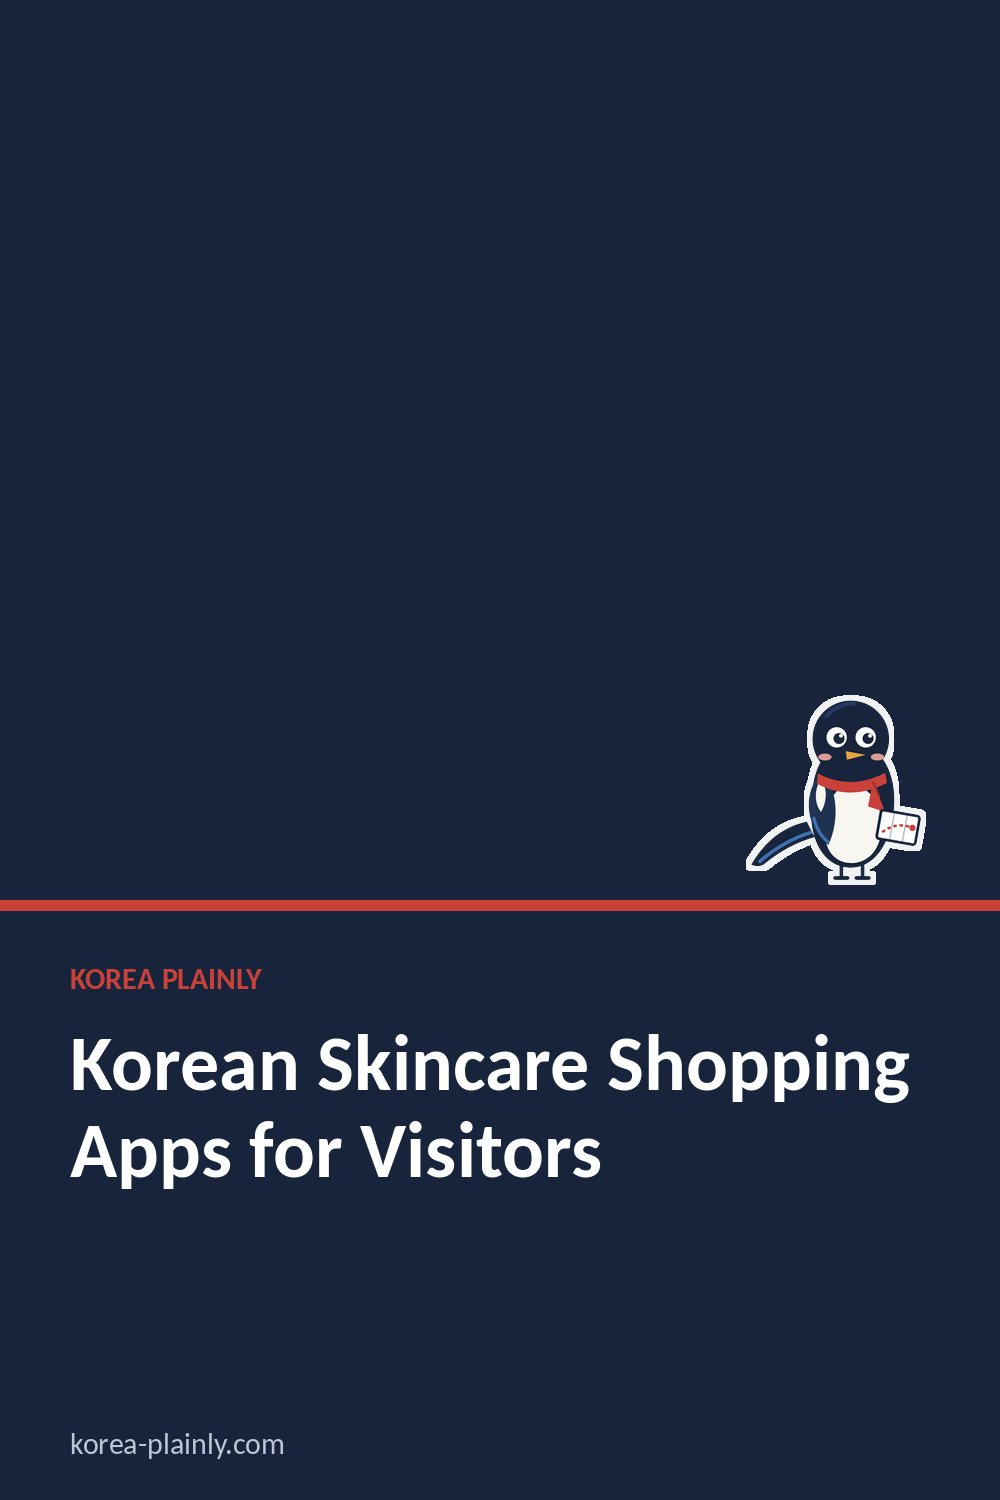
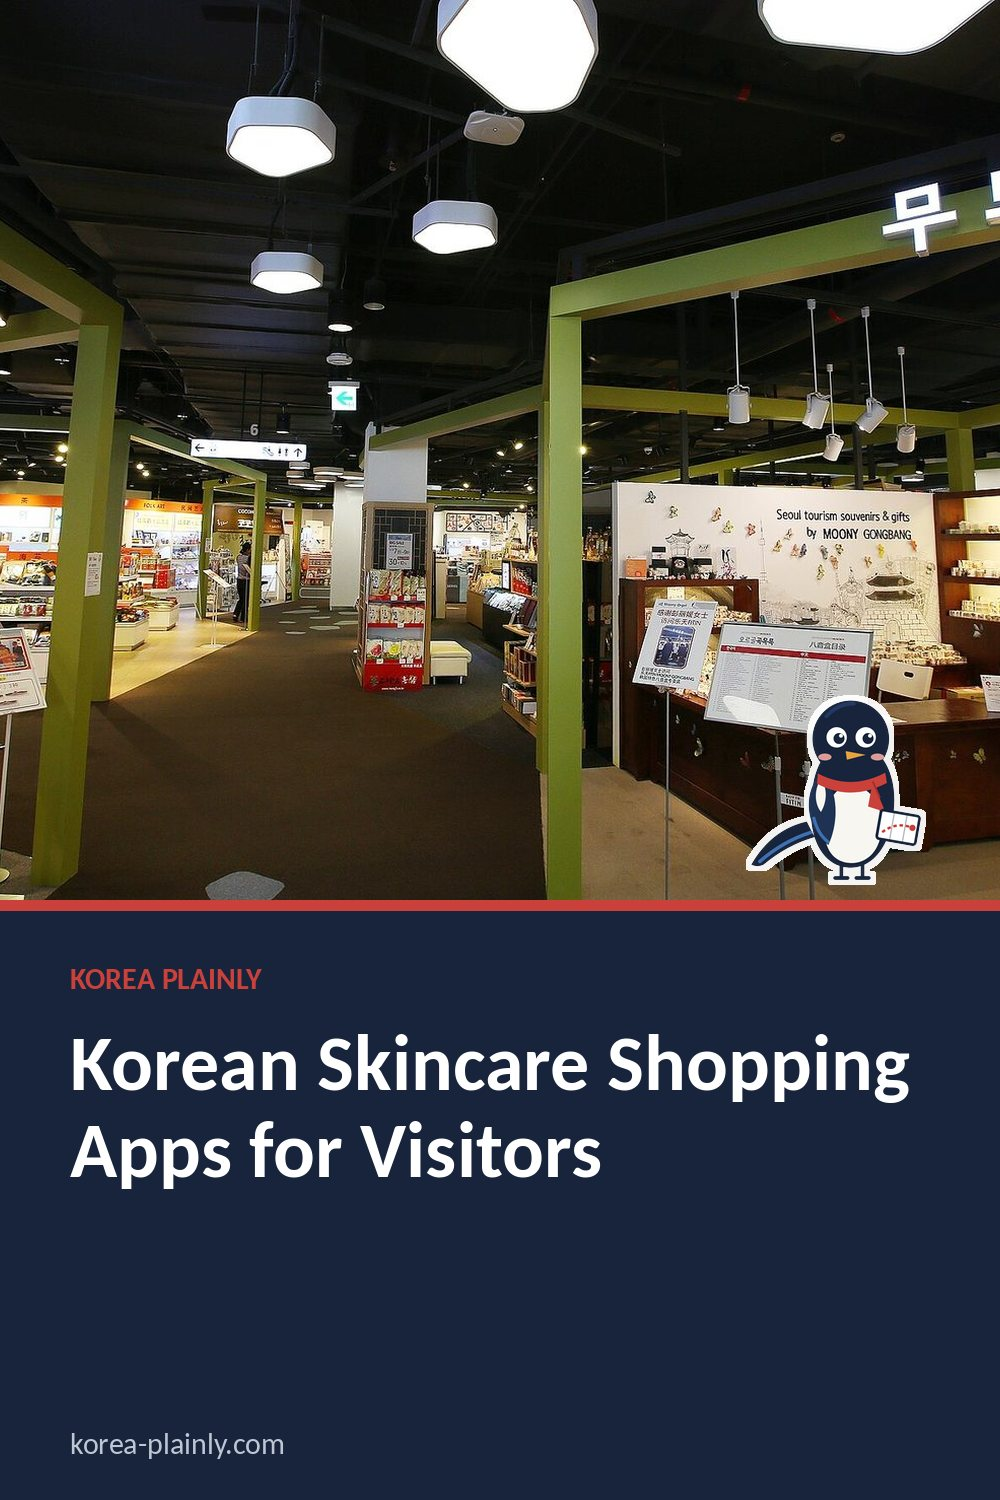
Skincare apps guide: use the Seoul shopping photo as cover (Commons retry found nothing)
Claude-Session: https://claude.ai/code/session_01MMQnqHAAmPLWFfv3sL7Uxx

diff --git a/shop.html b/shop.html
@@ -22,7 +22,7 @@
 <a href="videos.html">Videos</a>
 <a href="about.html">About</a>
 <a href="search.html" class="nav-search" aria-label="Search">Search</a>
-</nav><button class="menu" aria-label="menu">☰</button></div></header><main><section class="hub-hero"><div class="wrap"><a class="hub-back" href="index.html">← Home</a><p class="kicker"><i></i> KOREA PLAINLY</p><h1>Shop in Korea</h1><p>Markets, shopping streets and stores in Korea, with what to expect before you go.</p><div class="hub-cats"><a href="see-do.html">See &amp; Do</a><a href="eat-drink.html">Eat &amp; Drink</a><a href="shop.html">Shop</a><a href="stay.html">Stay</a></div></div></section><section class="wrap section"><div class="hub-grid"><a class="hub-card" href="jeju-shopping-jeju-traditional-five-day-market.html"><img class="hub-thumb" src="regional-jeju-shopping-jeju-traditional-five-day-market.jpg" alt="" loading="lazy" srcset="img/regional-jeju-shopping-jeju-traditional-five-day-market.b1b17c9a.w480.webp 480w, img/regional-jeju-shopping-jeju-traditional-five-day-market.b1b17c9a.w800.webp 800w, img/regional-jeju-shopping-jeju-traditional-five-day-market.b1b17c9a.w1200.webp 1200w, regional-jeju-shopping-jeju-traditional-five-day-market.jpg 1600w" sizes="(max-width: 600px) 100vw, (max-width: 1000px) 50vw, 400px" decoding="async"><span>SHOPPING</span><h3>Jeju Traditional Five-Day Market: A taste of local life</h3><b>Read guide &rarr;</b></a><a class="hub-card" href="korean-skincare-shopping-apps.html"><img class="hub-thumb" src="street.jpg" alt="" loading="lazy" srcset="img/street.5386e01c.w480.webp 480w, img/street.5386e01c.w800.webp 800w, img/street.5386e01c.w1200.webp 1200w, street.jpg 1536w" sizes="(max-width: 600px) 100vw, (max-width: 1000px) 50vw, 400px" decoding="async"><span>SHOP</span><h3>Korean Skincare Shopping Apps for Visitors</h3><b>Read guide &rarr;</b></a><a class="hub-card" href="seoul-shopping-districts.html"><img class="hub-thumb" src="photo-seoul-shopping-districts.jpg" alt="" loading="lazy" srcset="img/photo-seoul-shopping-districts.40bf6f67.w480.webp 480w, img/photo-seoul-shopping-districts.40bf6f67.w800.webp 800w, img/photo-seoul-shopping-districts.40bf6f67.w1200.webp 1200w, photo-seoul-shopping-districts.jpg 1600w" sizes="(max-width: 600px) 100vw, (max-width: 1000px) 50vw, 400px" decoding="async"><span>SHOPPING</span><h3>Seoul Shopping Districts: Where to Shop on Your First Trip</h3><b>Read guide &rarr;</b></a><a class="hub-card" href="seoul-shopping-myeongdong-shopping-street.html"><img class="hub-thumb" src="regional-seoul-shopping-myeongdong-shopping-street.jpg" alt="" loading="lazy" srcset="img/regional-seoul-shopping-myeongdong-shopping-street.16504d05.w480.webp 480w, img/regional-seoul-shopping-myeongdong-shopping-street.16504d05.w800.webp 800w, img/regional-seoul-shopping-myeongdong-shopping-street.16504d05.w1200.webp 1200w, regional-seoul-shopping-myeongdong-shopping-street.jpg 1600w" sizes="(max-width: 600px) 100vw, (max-width: 1000px) 50vw, 400px" decoding="async"><span>SHOPPING</span><h3>Myeongdong Shopping Street: A Practical Guide to Seoul’s Busy Retail District</h3><b>Read guide &rarr;</b></a><a class="hub-card" href="sokcho-shopping-sokcho-tourist-fishery-market.html"><img class="hub-thumb" src="regional-sokcho-shopping-sokcho-tourist-fishery-market.jpg" alt="" loading="lazy" srcset="img/regional-sokcho-shopping-sokcho-tourist-fishery-market.28444b07.w480.webp 480w, img/regional-sokcho-shopping-sokcho-tourist-fishery-market.28444b07.w800.webp 800w, img/regional-sokcho-shopping-sokcho-tourist-fishery-market.28444b07.w1200.webp 1200w, regional-sokcho-shopping-sokcho-tourist-fishery-market.jpg 1600w" sizes="(max-width: 600px) 100vw, (max-width: 1000px) 50vw, 400px" decoding="async"><span>SHOPPING</span><h3>Sokcho Tourist &amp; Fishery Market: A Taste of the Coast</h3><b>Read guide &rarr;</b></a></div></section>
+</nav><button class="menu" aria-label="menu">☰</button></div></header><main><section class="hub-hero"><div class="wrap"><a class="hub-back" href="index.html">← Home</a><p class="kicker"><i></i> KOREA PLAINLY</p><h1>Shop in Korea</h1><p>Markets, shopping streets and stores in Korea, with what to expect before you go.</p><div class="hub-cats"><a href="see-do.html">See &amp; Do</a><a href="eat-drink.html">Eat &amp; Drink</a><a href="shop.html">Shop</a><a href="stay.html">Stay</a></div></div></section><section class="wrap section"><div class="hub-grid"><a class="hub-card" href="jeju-shopping-jeju-traditional-five-day-market.html"><img class="hub-thumb" src="regional-jeju-shopping-jeju-traditional-five-day-market.jpg" alt="" loading="lazy" srcset="img/regional-jeju-shopping-jeju-traditional-five-day-market.b1b17c9a.w480.webp 480w, img/regional-jeju-shopping-jeju-traditional-five-day-market.b1b17c9a.w800.webp 800w, img/regional-jeju-shopping-jeju-traditional-five-day-market.b1b17c9a.w1200.webp 1200w, regional-jeju-shopping-jeju-traditional-five-day-market.jpg 1600w" sizes="(max-width: 600px) 100vw, (max-width: 1000px) 50vw, 400px" decoding="async"><span>SHOPPING</span><h3>Jeju Traditional Five-Day Market: A taste of local life</h3><b>Read guide &rarr;</b></a><a class="hub-card" href="korean-skincare-shopping-apps.html"><img class="hub-thumb" src="photo-seoul-shopping-districts.jpg" alt="" loading="lazy" srcset="img/photo-seoul-shopping-districts.40bf6f67.w480.webp 480w, img/photo-seoul-shopping-districts.40bf6f67.w800.webp 800w, img/photo-seoul-shopping-districts.40bf6f67.w1200.webp 1200w, photo-seoul-shopping-districts.jpg 1600w" sizes="(max-width: 600px) 100vw, (max-width: 1000px) 50vw, 400px" decoding="async"><span>SHOP</span><h3>Korean Skincare Shopping Apps for Visitors</h3><b>Read guide &rarr;</b></a><a class="hub-card" href="seoul-shopping-districts.html"><img class="hub-thumb" src="photo-seoul-shopping-districts.jpg" alt="" loading="lazy" srcset="img/photo-seoul-shopping-districts.40bf6f67.w480.webp 480w, img/photo-seoul-shopping-districts.40bf6f67.w800.webp 800w, img/photo-seoul-shopping-districts.40bf6f67.w1200.webp 1200w, photo-seoul-shopping-districts.jpg 1600w" sizes="(max-width: 600px) 100vw, (max-width: 1000px) 50vw, 400px" decoding="async"><span>SHOPPING</span><h3>Seoul Shopping Districts: Where to Shop on Your First Trip</h3><b>Read guide &rarr;</b></a><a class="hub-card" href="seoul-shopping-myeongdong-shopping-street.html"><img class="hub-thumb" src="regional-seoul-shopping-myeongdong-shopping-street.jpg" alt="" loading="lazy" srcset="img/regional-seoul-shopping-myeongdong-shopping-street.16504d05.w480.webp 480w, img/regional-seoul-shopping-myeongdong-shopping-street.16504d05.w800.webp 800w, img/regional-seoul-shopping-myeongdong-shopping-street.16504d05.w1200.webp 1200w, regional-seoul-shopping-myeongdong-shopping-street.jpg 1600w" sizes="(max-width: 600px) 100vw, (max-width: 1000px) 50vw, 400px" decoding="async"><span>SHOPPING</span><h3>Myeongdong Shopping Street: A Practical Guide to Seoul’s Busy Retail District</h3><b>Read guide &rarr;</b></a><a class="hub-card" href="sokcho-shopping-sokcho-tourist-fishery-market.html"><img class="hub-thumb" src="regional-sokcho-shopping-sokcho-tourist-fishery-market.jpg" alt="" loading="lazy" srcset="img/regional-sokcho-shopping-sokcho-tourist-fishery-market.28444b07.w480.webp 480w, img/regional-sokcho-shopping-sokcho-tourist-fishery-market.28444b07.w800.webp 800w, img/regional-sokcho-shopping-sokcho-tourist-fishery-market.28444b07.w1200.webp 1200w, regional-sokcho-shopping-sokcho-tourist-fishery-market.jpg 1600w" sizes="(max-width: 600px) 100vw, (max-width: 1000px) 50vw, 400px" decoding="async"><span>SHOPPING</span><h3>Sokcho Tourist &amp; Fishery Market: A Taste of the Coast</h3><b>Read guide &rarr;</b></a></div></section>
 <section class="related-guides">
 <h2>Related guides</h2>
 <ul>

diff --git a/korean-skincare-shopping-apps.html b/korean-skincare-shopping-apps.html
@@ -46,7 +46,7 @@ Korean Skincare Shopping Apps for Visitors | Korea Plainly
 
 <meta
   property="og:image"
-  content="https://korea-plainly.com/street.jpg"
+  content="https://korea-plainly.com/photo-seoul-shopping-districts.jpg"
 >
 
 <meta
@@ -71,7 +71,7 @@ Korean Skincare Shopping Apps for Visitors | Korea Plainly
 
 <meta
   name="twitter:image"
-  content="https://korea-plainly.com/street.jpg"
+  content="https://korea-plainly.com/photo-seoul-shopping-districts.jpg"
 >
 
 <style>
@@ -250,7 +250,7 @@ footer {
 <link rel="stylesheet" href="article.css?v=4">
 <link rel="stylesheet" href="https://fonts.googleapis.com/css2?family=DM+Sans:wght@400;500;600;700&family=Playfair+Display:ital,wght@0,600;1,600&display=swap">
 <link rel="icon" href="/favicon.svg" type="image/svg+xml">
-<script type="application/ld+json" id="kp-article-ld">{"@context": "https://schema.org", "@type": "Article", "headline": "Korean Skincare Shopping Apps for Visitors", "description": "A practical guide to Olive Young, Hwahae and local shopping apps, with tips for checking ingredients, finding stores and paying as a visitor.", "image": ["https://korea-plainly.com/street.jpg"], "datePublished": "2026-11-12", "dateModified": "2026-11-12", "author": {"@type": "Person", "name": "Jungsuk Kim", "url": "https://korea-plainly.com/about.html#author"}, "publisher": {"@type": "Organization", "name": "Korea Plainly", "url": "https://korea-plainly.com/"}, "mainEntityOfPage": "https://korea-plainly.com/korean-skincare-shopping-apps.html"}</script>
+<script type="application/ld+json" id="kp-article-ld">{"@context": "https://schema.org", "@type": "Article", "headline": "Korean Skincare Shopping Apps for Visitors", "description": "A practical guide to Olive Young, Hwahae and local shopping apps, with tips for checking ingredients, finding stores and paying as a visitor.", "image": ["https://korea-plainly.com/photo-seoul-shopping-districts.jpg"], "datePublished": "2026-11-12", "dateModified": "2026-11-12", "author": {"@type": "Person", "name": "Jungsuk Kim", "url": "https://korea-plainly.com/about.html#author"}, "publisher": {"@type": "Organization", "name": "Korea Plainly", "url": "https://korea-plainly.com/"}, "mainEntityOfPage": "https://korea-plainly.com/korean-skincare-shopping-apps.html"}</script>
 <script type="application/ld+json" id="kp-breadcrumb-ld">{"@context": "https://schema.org", "@type": "BreadcrumbList", "itemListElement": [{"@type": "ListItem", "position": 1, "name": "Home", "item": "https://korea-plainly.com/"}, {"@type": "ListItem", "position": 2, "name": "Guides", "item": "https://korea-plainly.com/guides.html"}, {"@type": "ListItem", "position": 3, "name": "Apps & Tips", "item": "https://korea-plainly.com/guides.html?category=apps"}, {"@type": "ListItem", "position": 4, "name": "Korean Skincare Shopping Apps for Visitors", "item": "https://korea-plainly.com/korean-skincare-shopping-apps.html"}]}</script>
 <meta property="article:published_time" content="2026-11-12">
 </head>
@@ -292,9 +292,10 @@ A practical guide to Olive Young, Hwahae and local shopping apps, with tips for 
 
 <img
   class="cover"
-  src="street.jpg"
-  alt="Skincare shelves and product displays inside an Olive Young store in Seoul" srcset="img/street.5386e01c.w480.webp 480w, img/street.5386e01c.w800.webp 800w, img/street.5386e01c.w1200.webp 1200w, street.jpg 1536w" sizes="(max-width: 860px) 100vw, 820px" fetchpriority="high"
+  src="photo-seoul-shopping-districts.jpg"
+  alt="Skincare shelves and product displays inside an Olive Young store in Seoul" srcset="img/photo-seoul-shopping-districts.40bf6f67.w480.webp 480w, img/photo-seoul-shopping-districts.40bf6f67.w800.webp 800w, img/photo-seoul-shopping-districts.40bf6f67.w1200.webp 1200w, photo-seoul-shopping-districts.jpg 1600w" sizes="(max-width: 860px) 100vw, 820px" fetchpriority="high"
 >
+<p class="photo-credit" data-kp="photo-credit" style="font-size:12px;color:#777;margin:-18px 0 24px"><a href="https://commons.wikimedia.org/wiki/File:Korea_Lotte_Fitin_Dongdaemun_04_(14622838761).jpg" target="_blank" rel="noopener nofollow" style="color:inherit">Photo: Republic of Korea from Seoul, Republic of Korea, CC BY-SA 2.0, via Wikimedia Commons</a></p>
 
 <article>
 

diff --git a/guides.html b/guides.html
@@ -3417,7 +3417,7 @@ class="guide-card"
 href="korean-skincare-shopping-apps.html" data-guide-category="apps"
 >
 
-<div class="guide-image" data-thumb="thumb-auto-korean-skincare-shopping-apps.svg"><img class="guide-thumb" src="thumb-auto-korean-skincare-shopping-apps.svg" alt="" loading="eager" decoding="async">
+<div class="guide-image" data-thumb="photo-seoul-shopping-districts.jpg"><img class="guide-thumb" src="photo-seoul-shopping-districts.jpg" alt="" loading="eager" srcset="img/photo-seoul-shopping-districts.40bf6f67.w480.webp 480w, img/photo-seoul-shopping-districts.40bf6f67.w800.webp 800w, img/photo-seoul-shopping-districts.40bf6f67.w1200.webp 1200w, photo-seoul-shopping-districts.jpg 1600w" sizes="(max-width: 600px) 100vw, (max-width: 1000px) 50vw, 400px" decoding="async">
 
 <span>
 114
